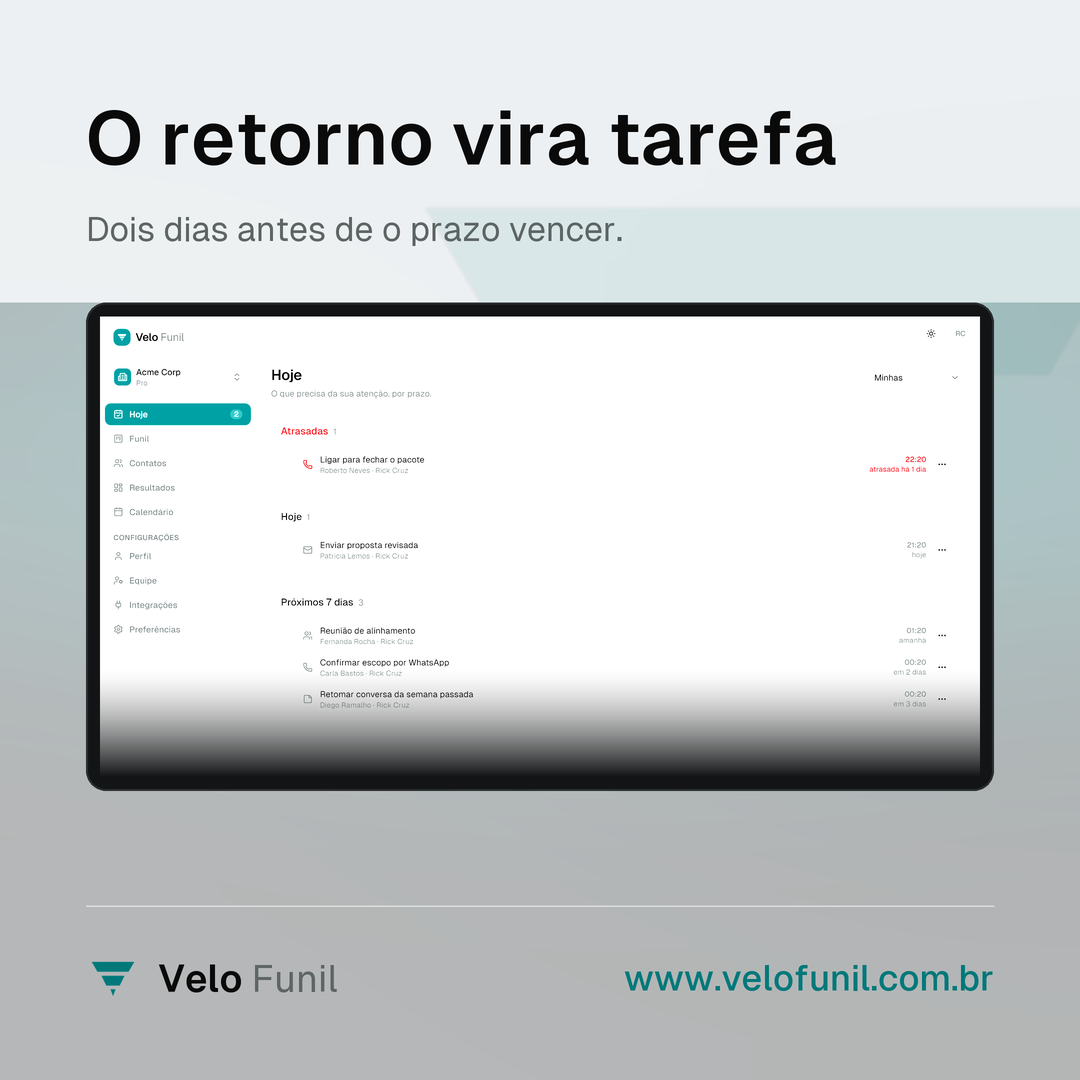
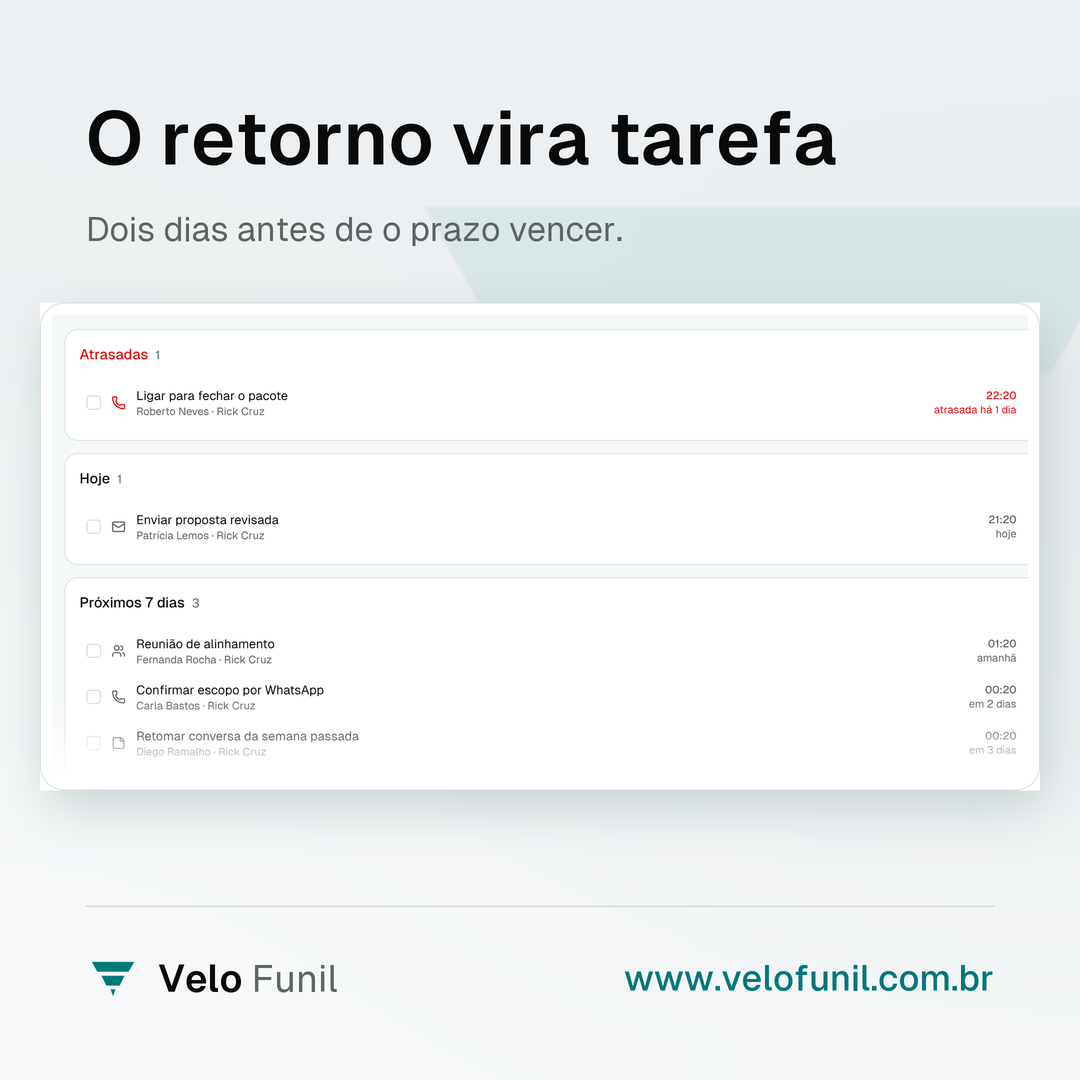
fix(marketing): o print da peca de produto estava ilegivel a 0,60x
Relato do dono, com print: "melhore a qualidade por dentro".

`card_com_print` do modulo base encaixa a tela INTEIRA no card. A tela do
produto tem 1440px de largura em CSS e a coluna da arte tem ~1000px:

    escala        0,60x
    texto do app  14px  ->  8,4px na peca

Ou seja, a peca que existe para mostrar a tela do produto mostrava a tela do
produto ilegivel. E um sexto da largura era a barra lateral, que nao diz nada
sobre orcamento.

A correcao ja existia no projeto desde 09/09, em `_print_no_claro` do gerador
de feed: amostrar uma REGIAO da origem em vez da tela toda. O recorte
`(530, 285, 2200)` e o mesmo do carrossel de orcamento — comeca depois do menu,
e o que aparece e a tarefa vencida com hora e nome, que e o que prova a
promessa do titulo.

    0,60x  ->  ~0,89x

E `_print_no_claro` FALHA a geracao abaixo de 0,80x, guarda que nasceu junto
com aquela correcao.

O import do gerador de feed traz um efeito colateral conhecido: ele reconfigura
as dimensoes globais no import. Fica inofensivo porque toda peca daqui chama
`_formato()` antes de desenhar — esta escrito no codigo para a proxima leitura
nao concluir que e descuido.

Junto: `logo.png` 720x720, gerado por `desenhar_selo()` — a mesma funcao do
favicon e do icone do app. Marca nao se regera por canal.

diff --git a/scripts/marketing/gerar-perfil-google.py b/scripts/marketing/gerar-perfil-google.py
@@ -56,6 +56,24 @@ g = importlib.util.module_from_spec(_spec)
 sys.modules["gerar_stories"] = g
 _spec.loader.exec_module(g)
 
+# ## O gerador de feed entra só por `_print_no_claro`
+#
+# Ele resolve uma coisa que `card_com_print` do módulo base não resolve:
+# amostrar uma REGIÃO do print em vez da tela inteira. Sem isso, a tela de
+# 1440px de CSS cabe numa coluna de ~1000px a 0,60x, e texto de 14px vira
+# 8,4px — ilegível, e é o "borrado ao dar zoom" que o dono já relatou em 09/09.
+#
+# Importar tem um efeito colateral conhecido: o módulo do feed reconfigura as
+# dimensões globais (1080x1350) no import. Fica inofensivo porque toda peça
+# daqui chama `_formato()` antes de desenhar — mas é a razão de o import ficar
+# AQUI, depois do módulo base e antes de qualquer uso.
+_spec_feed = importlib.util.spec_from_file_location(
+    "gerar_feed", Path(__file__).resolve().parent / "gerar-feed.py"
+)
+feed = importlib.util.module_from_spec(_spec_feed)
+sys.modules["gerar_feed"] = feed
+_spec_feed.loader.exec_module(feed)
+
 
 SAIDA = g.RAIZ / "marketing" / "google-perfil"
 
@@ -238,10 +256,27 @@ def produto():
         g.cor_corpo(),
     )
 
-    # O print come a faixa que sobra até a assinatura, com respiro de 6%.
-    # `card_com_print` escala pela LARGURA e corta pela base com esmaecimento —
-    # a correção de 09/09, quando o print entrava espremido em 2,7x.
-    g.card_com_print(img, "hoje-light.png", y + int(g.H * 0.05), base - y - int(g.H * 0.11))
+    # ## O print mostra a TAREFA, não o menu
+    #
+    # `card_com_print` do módulo base encaixa a tela inteira: numa coluna de
+    # ~1000px, os 1440px de CSS caem para 0,60x e o texto de 14px do app vira
+    # 8,4px. O resultado é a tela do produto ilegível na peça que existe para
+    # mostrar a tela do produto.
+    #
+    # `_print_no_claro` amostra uma REGIÃO da origem — `(x, y, largura)` — e o
+    # recorte abaixo é o mesmo já usado no carrossel de orçamento: começa depois
+    # da barra lateral, que ocupa um sexto da largura e não diz nada sobre
+    # orçamento. O que prova a promessa é a tarefa vencida com hora e nome.
+    #
+    # A escala sobe de 0,60x para ~0,89x, e `_print_no_claro` FALHA a geração
+    # se cair abaixo de 0,80x — a guarda que nasceu junto com a correção.
+    feed._print_no_claro(
+        img,
+        "hoje-light.png",
+        y + int(g.H * 0.05),
+        base - y - int(g.H * 0.11),
+        recorte=(530, 285, 2200),
+    )
     g.assinar_discreto(img, draw)
 
     # O tema volta ao escuro: as peças seguintes leem a MESMA global, e deixá-la
